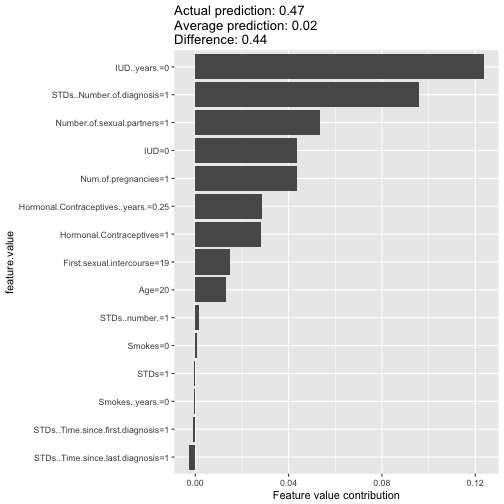
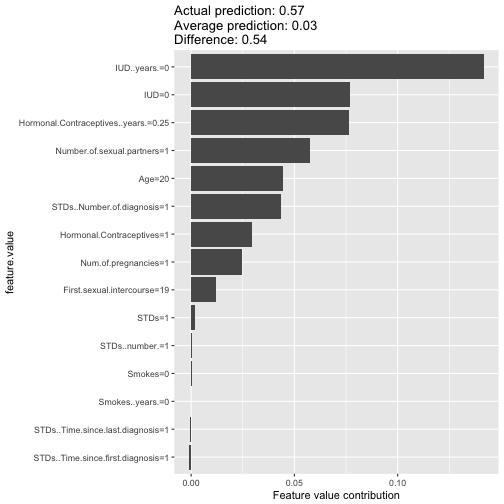
leanpub-tests

diff --git a/manuscript/05.6-agnostic-shapley.md b/manuscript/05.6-agnostic-shapley.md
@@ -14,7 +14,9 @@ Assume the following scenario:
 You trained a machine learning model to predict apartment prices.
 For a certain apartment it predicts 300.000 € and you need to explain this prediction.
 The apartment has a size of 50 m^2^, is located on the 2nd floor, with a park nearby and cats are forbidden (see Figure \@ref(fig:shapley-instance)).
+
 ![The predicted price for our apartment is 300.000€. It's a 50 square meter apartment on the second floor. There is a park nearby and cats are forbidden. Our goal is to explain how each of these features values contributed towards the predicted price of 300k€.](./images/shapley-instance.jpg)
+
 The average prediction for all apartments is 310.000€.
 How much did each feature value contribute to the prediction compared to the average prediction?
 
@@ -48,12 +50,15 @@ The contributions add up to -10.000€: the final prediction minus the average p
 The Shapley value is the average marginal contribution of a feature value over all possible coalitions.
 All clear now?
 Have a look at Figure \@ref(fig:shapley-instance-intervened) to learn how to compute the contribution of a feature value to a coalition.
+
 ![We assess the contribution of the 'cat-forbidden' feature value when added to a coalition of 'park-nearby', 'size-50m^2^'. We simulate that only 'park-nearby', 'cat-forbidden' and 'size-50m^2^' are in a coalition by randomly drawing the value for the floor feature. Then we predict the price of the apartment with this combination (301.000€). In a second step we remove 'cat-forbidden' from the coalition by replacing it with a random value of the cat allowed/forbidden feature from the randomly drawn apartment. In the example it was 'cat-allowed', but it could have been 'cat-forbidden' again. We predict the apartment price for the coalition of 'park-nearby' and 'size-50m^2^' (320.000€). The contribution of 'cat-forbidden' was 301.000€ - 320.000€ = -19.000€. This estimation depends on the sampled non-participating feature values and we get better estimates by repeating this procedure. This figure shows the computation of the marginal contribution for only one coalition. The Shapley value is the weighted average of marginal contributions over all coalitions.](./images/shapley-instance-intervention.jpg)
+
 We repeat this computation for all possible coalitions.
 The computation time increases exponentially with the number of features, so we have to sample from all possible coalitions.
 The Shapley value is the average over all the marginal contributions.
 Figure \@ref(fig:shapley-coalitions) shows all coalitions for computing the Shapley value of the 'cat-forbidden' feature value.
 When we repeat the Shapley value for all feature values, we get the complete distribution of the prediction (minus the average) among the feature values.
+
 ![All coalitions of feature values that are needed to assess the Shapley value for 'cat-forbidden'. The first row shows the coalition without any feature values. The 2nd, 3rd and 4th row show different coalitions - separated by '|' - with increasing coalition size. For each of those coalitions we compute the predicted apartment price with and without the 'cat-forbidden' feature value and take the difference to get the marginal contribution. The Shapley value is the (weighted) average of marginal contributions. We replace the feature values of features that are not in a coalition with random feature values from the apartment dataset to get a prediction from the machine learning model.](./images/shapley-coalitions.jpg)
 
 
@@ -92,25 +97,25 @@ Figure \@ref(fig:shapley-cervical-plot) visualizes the Shapley values, that are 
 |STDs..Time.since.first.diagnosis |  1.00|
 |STDs..Time.since.last.diagnosis  |  1.00|
 
-![Feature value contributions for woman 326 in the cervical cancer dataset. With a prediction of 0.47, this woman's cancer probability is 0.44 above the average prediction of 0.02. The feature value that increased the probability the most is the number of diagnosed STDs. The feature contributions sum up to the difference of actual and average prediction (0.44).](images/shapley-cervical-plot-1.png)
+![Feature value contributions for woman 326 in the cervical cancer dataset. With a prediction of 0.57, this woman's cancer probability is 0.54 above the average prediction of 0.03. The feature value that increased the probability the most is the number of diagnosed STDs. The feature contributions sum up to the difference of actual and average prediction (0.54).](images/shapley-cervical-plot-1.png)
 
 |feature                          |        phi|
 |:--------------------------------|----------:|
-|Age                              |  0.0133333|
-|First.sexual.intercourse         |  0.0533333|
-|Hormonal.Contraceptives          |  0.0150000|
-|Hormonal.Contraceptives..years.  |  0.0436667|
-|IUD                              |  0.0006667|
-|IUD..years.                      | -0.0006667|
-|Num.of.pregnancies               |  0.0283333|
-|Number.of.sexual.partners        |  0.0286667|
-|STDs                             |  0.0436667|
-|STDs..Number.of.diagnosis        |  0.1236667|
-|STDs..Time.since.first.diagnosis | -0.0003333|
-|STDs..Time.since.last.diagnosis  |  0.0016667|
-|STDs..number.                    |  0.0960000|
+|Age                              |  0.0446667|
+|First.sexual.intercourse         |  0.0576667|
+|Hormonal.Contraceptives          |  0.0120000|
+|Hormonal.Contraceptives..years.  |  0.0246667|
+|IUD                              |  0.0003333|
+|IUD..years.                      |  0.0000000|
+|Num.of.pregnancies               |  0.0296667|
+|Number.of.sexual.partners        |  0.0763333|
+|STDs                             |  0.0766667|
+|STDs..Number.of.diagnosis        |  0.1416667|
+|STDs..Time.since.first.diagnosis |  0.0020000|
+|STDs..Time.since.last.diagnosis  |  0.0003333|
+|STDs..number.                    |  0.0436667|
 |Smokes                           | -0.0010000|
-|Smokes..years.                   | -0.0026667|
+|Smokes..years.                   | -0.0003333|
 
 
 
@@ -137,22 +142,22 @@ Figure \@ref(fig:shapley-bike-plot) shows the explanations created for the  Rand
 |windspeed       |16.62605        |
 |days_since_2011 |284             |
 
-![Feature value contributions for instance 285. With a predicted 2417 rented bikes, this day is -2095 below the average prediction of 4511. The feature values that had the most negative effects were the weather situation, humidity and the time trend (years since 2011). The temperature on that day had a positive effect compared to the average prediction. The feature contributions sum up to the difference of actual and average prediction (-2095).](images/shapley-bike-plot-1.png)
+![Feature value contributions for instance 285. With a predicted 2548 rented bikes, this day is -1964 below the average prediction of 4511. The feature values that had the most negative effects were the weather situation, humidity and the time trend (years since 2011). The temperature on that day had a positive effect compared to the average prediction. The feature contributions sum up to the difference of actual and average prediction (-1964).](images/shapley-bike-plot-1.png)
 
 
 |feature         |      phi|
 |:---------------|--------:|
-|days_since_2011 |  -680.12|
-|holiday         |     0.11|
-|hum             | -1114.01|
-|mnth            |    11.27|
-|season          |     4.91|
-|temp            |   327.69|
-|weathersit      |  -618.94|
-|weekday         |    -4.28|
-|windspeed       |   -28.69|
-|workingday      |     2.85|
-|yr              |  -324.11|
+|days_since_2011 |  -837.61|
+|holiday         |     0.67|
+|hum             | -1009.58|
+|mnth            |    38.73|
+|season          |    22.95|
+|temp            |   436.34|
+|weathersit      |  -829.03|
+|weekday         |   -10.36|
+|windspeed       |   -27.61|
+|workingday      |    -3.09|
+|yr              |  -121.59|
 
 Be careful to interpret the Shapley value correctly:
 The Shapley value is the average contribution of a feature value towards the prediction in different coalitions.
